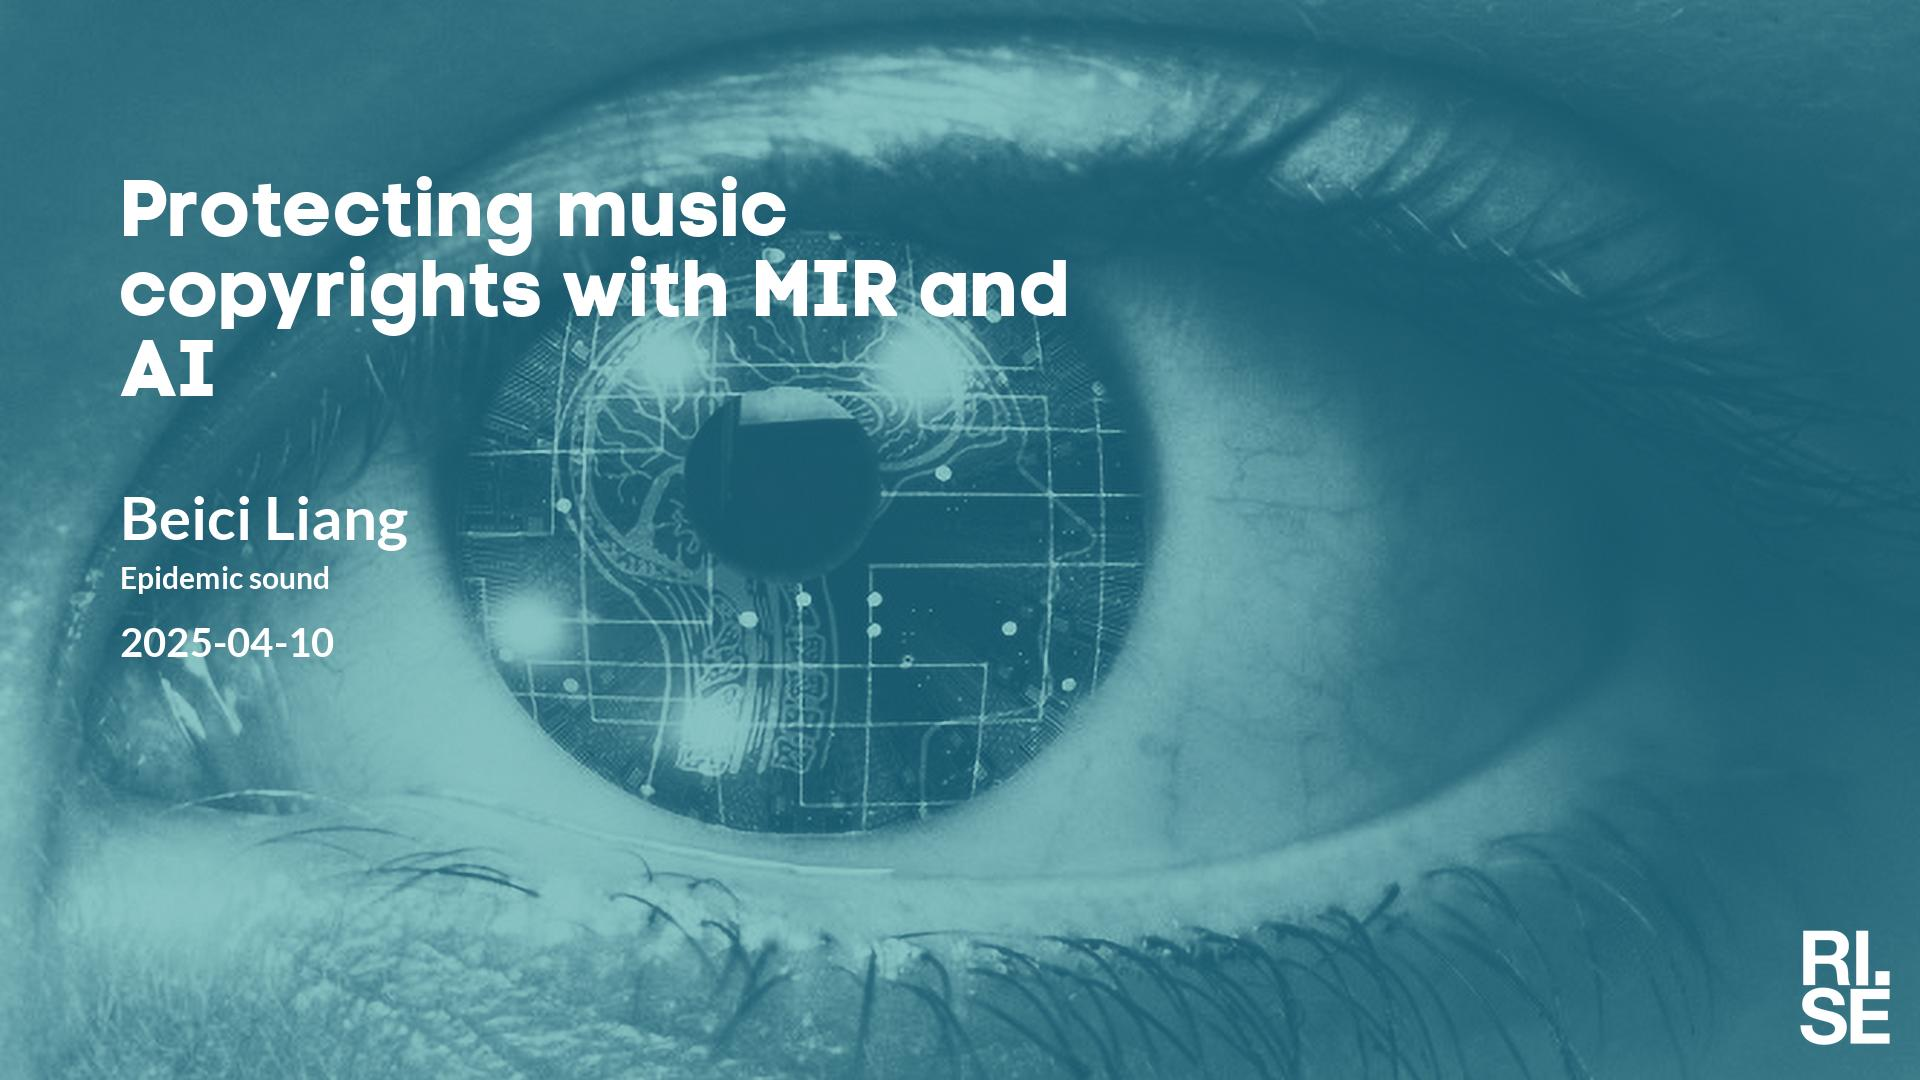
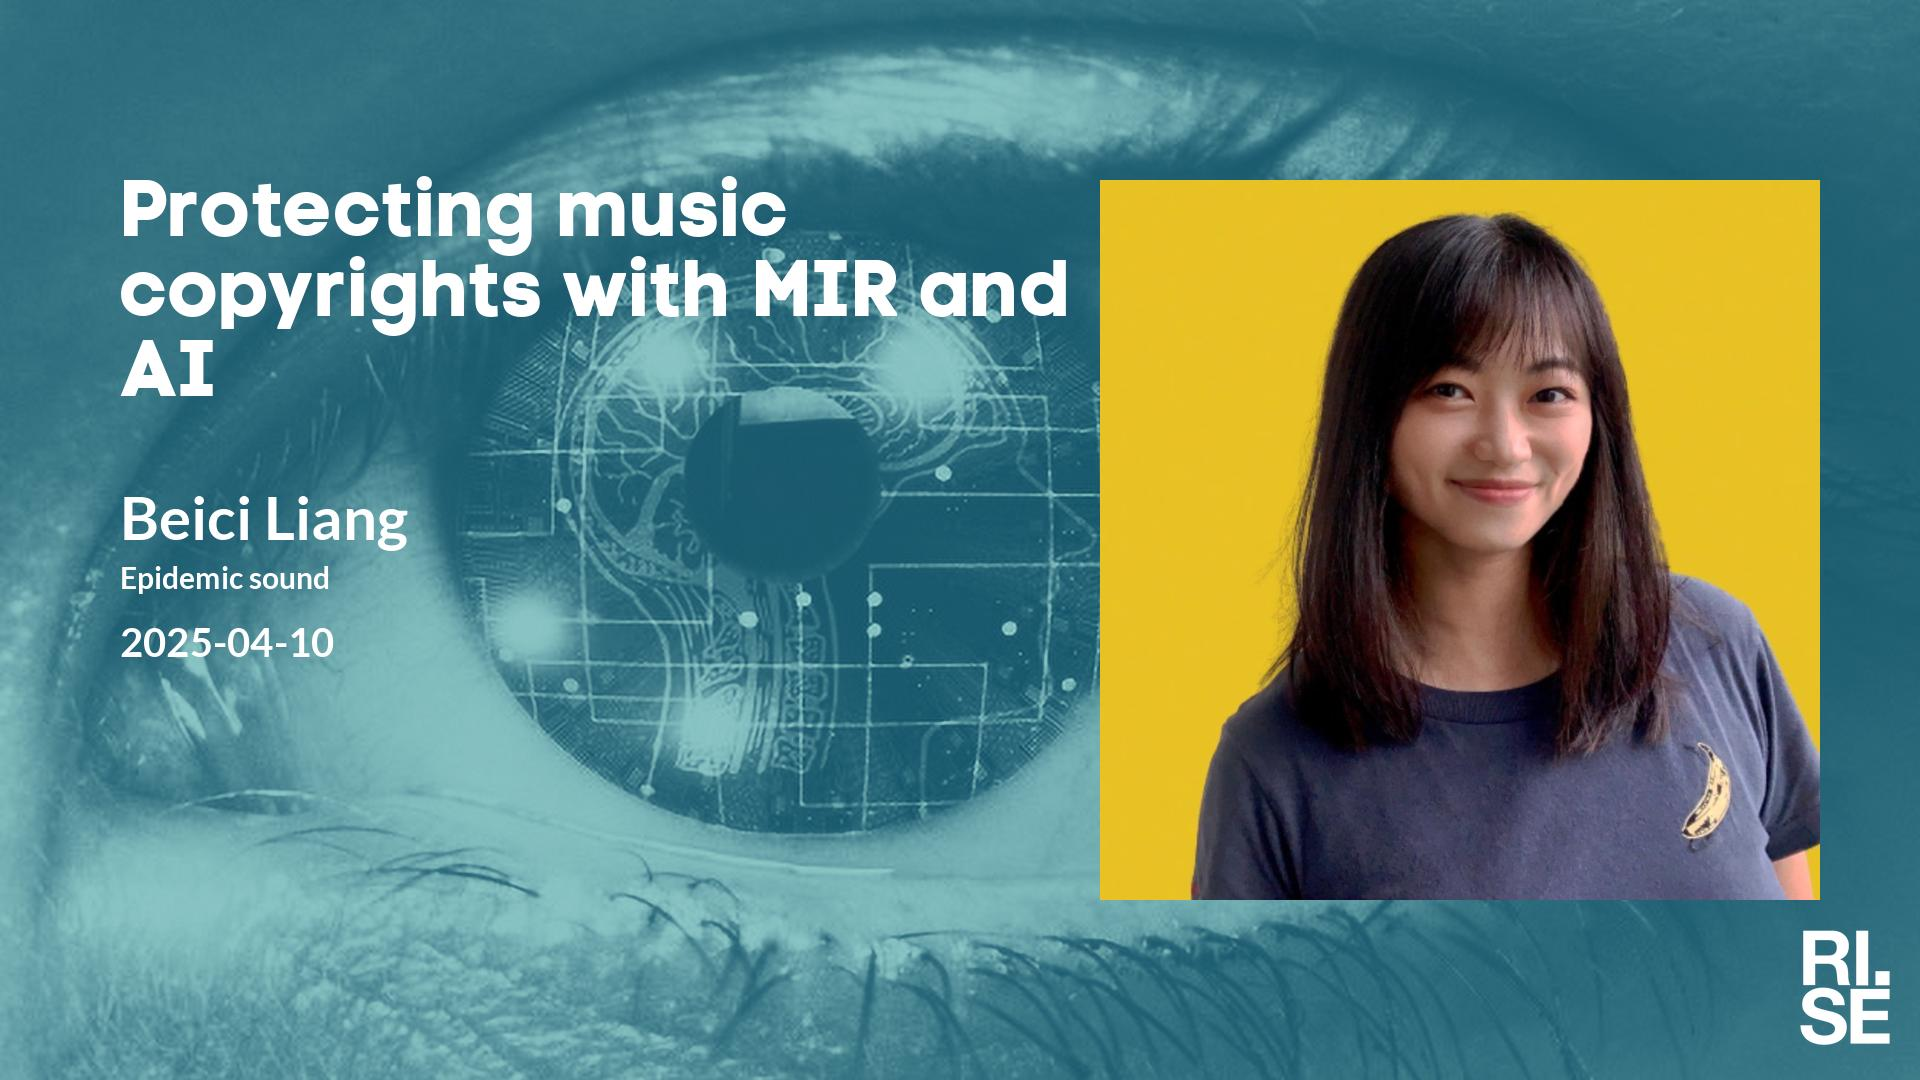
Updated plan on web site.

Changed region(s): [[0.5625, 0.1528, 0.9688, 0.8556]]

diff --git a/lm/2025.md b/lm/2025.md
@@ -21,7 +21,7 @@ table {border-collapse: collapse;}
 |  2025-03-20  |  [Oriol Nieto, Adobe](2025-03-20.md)  |  [photo](2025-03-20-photo-oriol-nieto.jpg)  |  [social media ](2025-03-20-social-media-oriol-nieto.jpg)  |  [meeting backdrop ](2025-03-20-meeting-backdrop-oriol-nieto.jpg)  |  [youtube thumbnail ](2025-03-20-youtube-thumbnail-oriol-nieto.jpg)  |  STABP  |
 |  2025-03-27  |  [María J. Molina, University of Maryland](2025-03-27.md)  |  [photo](2025-03-27-photo-maria-j.-molina.jpg)  |  [social media ](2025-03-27-social-media-maria-j.-molina.jpg)  |  [meeting backdrop ](2025-03-27-meeting-backdrop-maria-j.-molina.jpg)  |  [youtube thumbnail ](2025-03-27-youtube-thumbnail-maria-j.-molina.jpg)  |  STABP  |
 |  2025-04-03  |  [Abdul Shaamala, Queensland University of Technology](2025-04-03.md)  |  [photo](2025-04-03-photo-abdul-shaamala.jpg)  |  [social media ](2025-04-03-social-media-abdul-shaamala.jpg)  |  [meeting backdrop ](2025-04-03-meeting-backdrop-abdul-shaamala.jpg)  |  [youtube thumbnail ](2025-04-03-youtube-thumbnail-abdul-shaamala.jpg)  |  STABP  |
-|  2025-04-10  |  [Beici Liang, Epidemic sound](2025-04-10.md)  |    |  [social media ](2025-04-10-social-media-beici-liang.jpg)  |  [meeting backdrop ](2025-04-10-meeting-backdrop-beici-liang.jpg)  |  [youtube thumbnail ](2025-04-10-youtube-thumbnail-beici-liang.jpg)  |  STAB~~P~~  |
+|  2025-04-10  |  [Beici Liang, Epidemic sound](2025-04-10.md)  |  [photo](2025-04-10-photo-beici-liang.jpg)  |  [social media ](2025-04-10-social-media-beici-liang.jpg)  |  [meeting backdrop ](2025-04-10-meeting-backdrop-beici-liang.jpg)  |  [youtube thumbnail ](2025-04-10-youtube-thumbnail-beici-liang.jpg)  |  STABP  |
 | <span style="color:red"> 2025-04-17 </span> | <span style="color:red"> Holy Thursday </span> | <span style="color:red">  </span> | <span style="color:red">  </span> | <span style="color:red">  </span> | <span style="color:red">  </span> | <span style="color:red"> CANCELLED </span> |
 |  2025-04-24  |  [John Martinsson, RISE and Lund University](2025-04-24.md)  |  [photo](2025-04-24-photo-john-martinsson.jpg)  |  [social media ](2025-04-24-social-media-john-martinsson.jpg)  |  [meeting backdrop ](2025-04-24-meeting-backdrop-john-martinsson.jpg)  |  [youtube thumbnail ](2025-04-24-youtube-thumbnail-john-martinsson.jpg)  |  S~~TA~~BP  |
 | <span style="color:red"> 2025-05-01 </span> | <span style="color:red"> International Workers' Day </span> | <span style="color:red">  </span> | <span style="color:red">  </span> | <span style="color:red">  </span> | <span style="color:red">  </span> | <span style="color:red"> CANCELLED </span> |

diff --git a/lm/index.md b/lm/index.md
@@ -21,7 +21,7 @@ table {border-collapse: collapse;}
 |  2025-03-20  |  [Oriol Nieto, Adobe](2025-03-20.md)  |  [photo](2025-03-20-photo-oriol-nieto.jpg)  |  [social media ](2025-03-20-social-media-oriol-nieto.jpg)  |  [meeting backdrop ](2025-03-20-meeting-backdrop-oriol-nieto.jpg)  |  [youtube thumbnail ](2025-03-20-youtube-thumbnail-oriol-nieto.jpg)  |  STABP  |
 |  2025-03-27  |  [María J. Molina, University of Maryland](2025-03-27.md)  |  [photo](2025-03-27-photo-maria-j.-molina.jpg)  |  [social media ](2025-03-27-social-media-maria-j.-molina.jpg)  |  [meeting backdrop ](2025-03-27-meeting-backdrop-maria-j.-molina.jpg)  |  [youtube thumbnail ](2025-03-27-youtube-thumbnail-maria-j.-molina.jpg)  |  STABP  |
 |  2025-04-03  |  [Abdul Shaamala, Queensland University of Technology](2025-04-03.md)  |  [photo](2025-04-03-photo-abdul-shaamala.jpg)  |  [social media ](2025-04-03-social-media-abdul-shaamala.jpg)  |  [meeting backdrop ](2025-04-03-meeting-backdrop-abdul-shaamala.jpg)  |  [youtube thumbnail ](2025-04-03-youtube-thumbnail-abdul-shaamala.jpg)  |  STABP  |
-|  2025-04-10  |  [Beici Liang, Epidemic sound](2025-04-10.md)  |    |  [social media ](2025-04-10-social-media-beici-liang.jpg)  |  [meeting backdrop ](2025-04-10-meeting-backdrop-beici-liang.jpg)  |  [youtube thumbnail ](2025-04-10-youtube-thumbnail-beici-liang.jpg)  |  STAB~~P~~  |
+|  2025-04-10  |  [Beici Liang, Epidemic sound](2025-04-10.md)  |  [photo](2025-04-10-photo-beici-liang.jpg)  |  [social media ](2025-04-10-social-media-beici-liang.jpg)  |  [meeting backdrop ](2025-04-10-meeting-backdrop-beici-liang.jpg)  |  [youtube thumbnail ](2025-04-10-youtube-thumbnail-beici-liang.jpg)  |  STABP  |
 | <span style="color:red"> 2025-04-17 </span> | <span style="color:red"> Holy Thursday </span> | <span style="color:red">  </span> | <span style="color:red">  </span> | <span style="color:red">  </span> | <span style="color:red">  </span> | <span style="color:red"> CANCELLED </span> |
 |  2025-04-24  |  [John Martinsson, RISE and Lund University](2025-04-24.md)  |  [photo](2025-04-24-photo-john-martinsson.jpg)  |  [social media ](2025-04-24-social-media-john-martinsson.jpg)  |  [meeting backdrop ](2025-04-24-meeting-backdrop-john-martinsson.jpg)  |  [youtube thumbnail ](2025-04-24-youtube-thumbnail-john-martinsson.jpg)  |  S~~TA~~BP  |
 | <span style="color:red"> 2025-05-01 </span> | <span style="color:red"> International Workers' Day </span> | <span style="color:red">  </span> | <span style="color:red">  </span> | <span style="color:red">  </span> | <span style="color:red">  </span> | <span style="color:red"> CANCELLED </span> |
